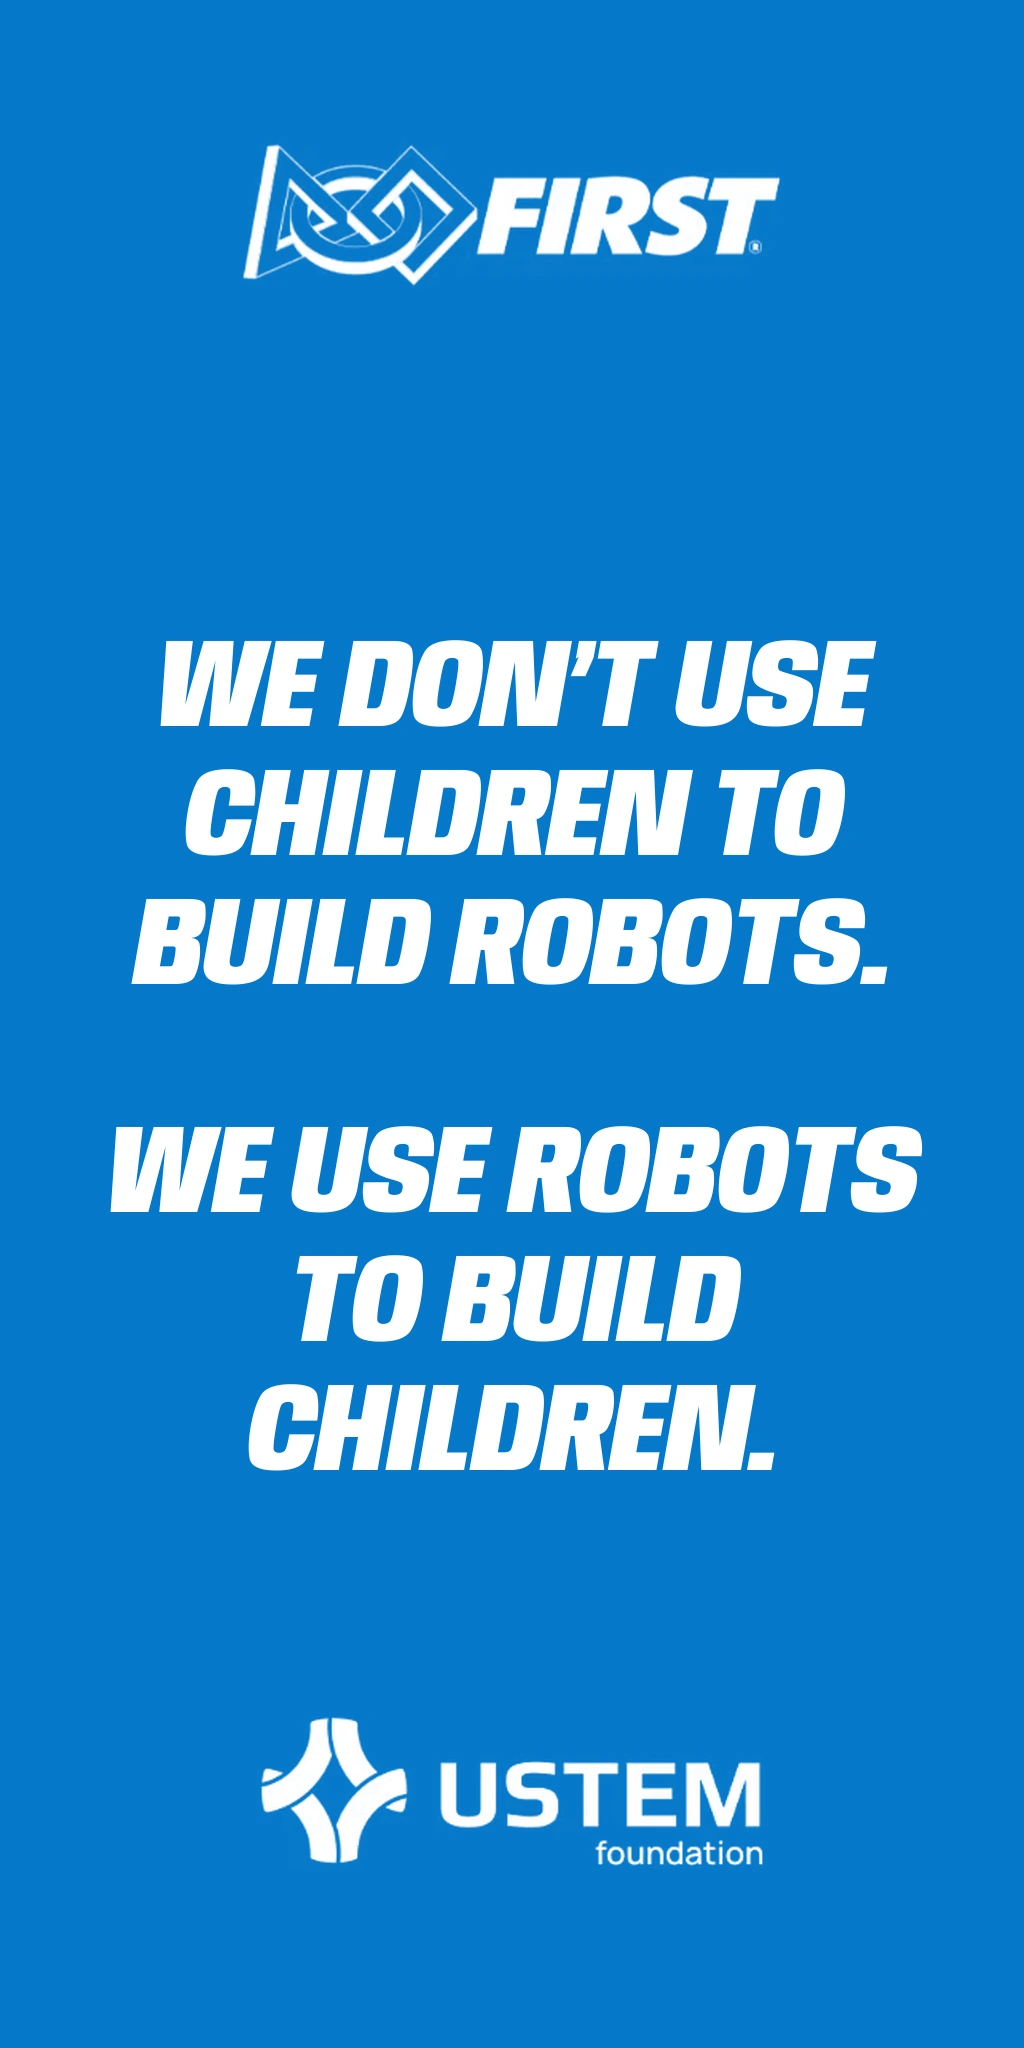
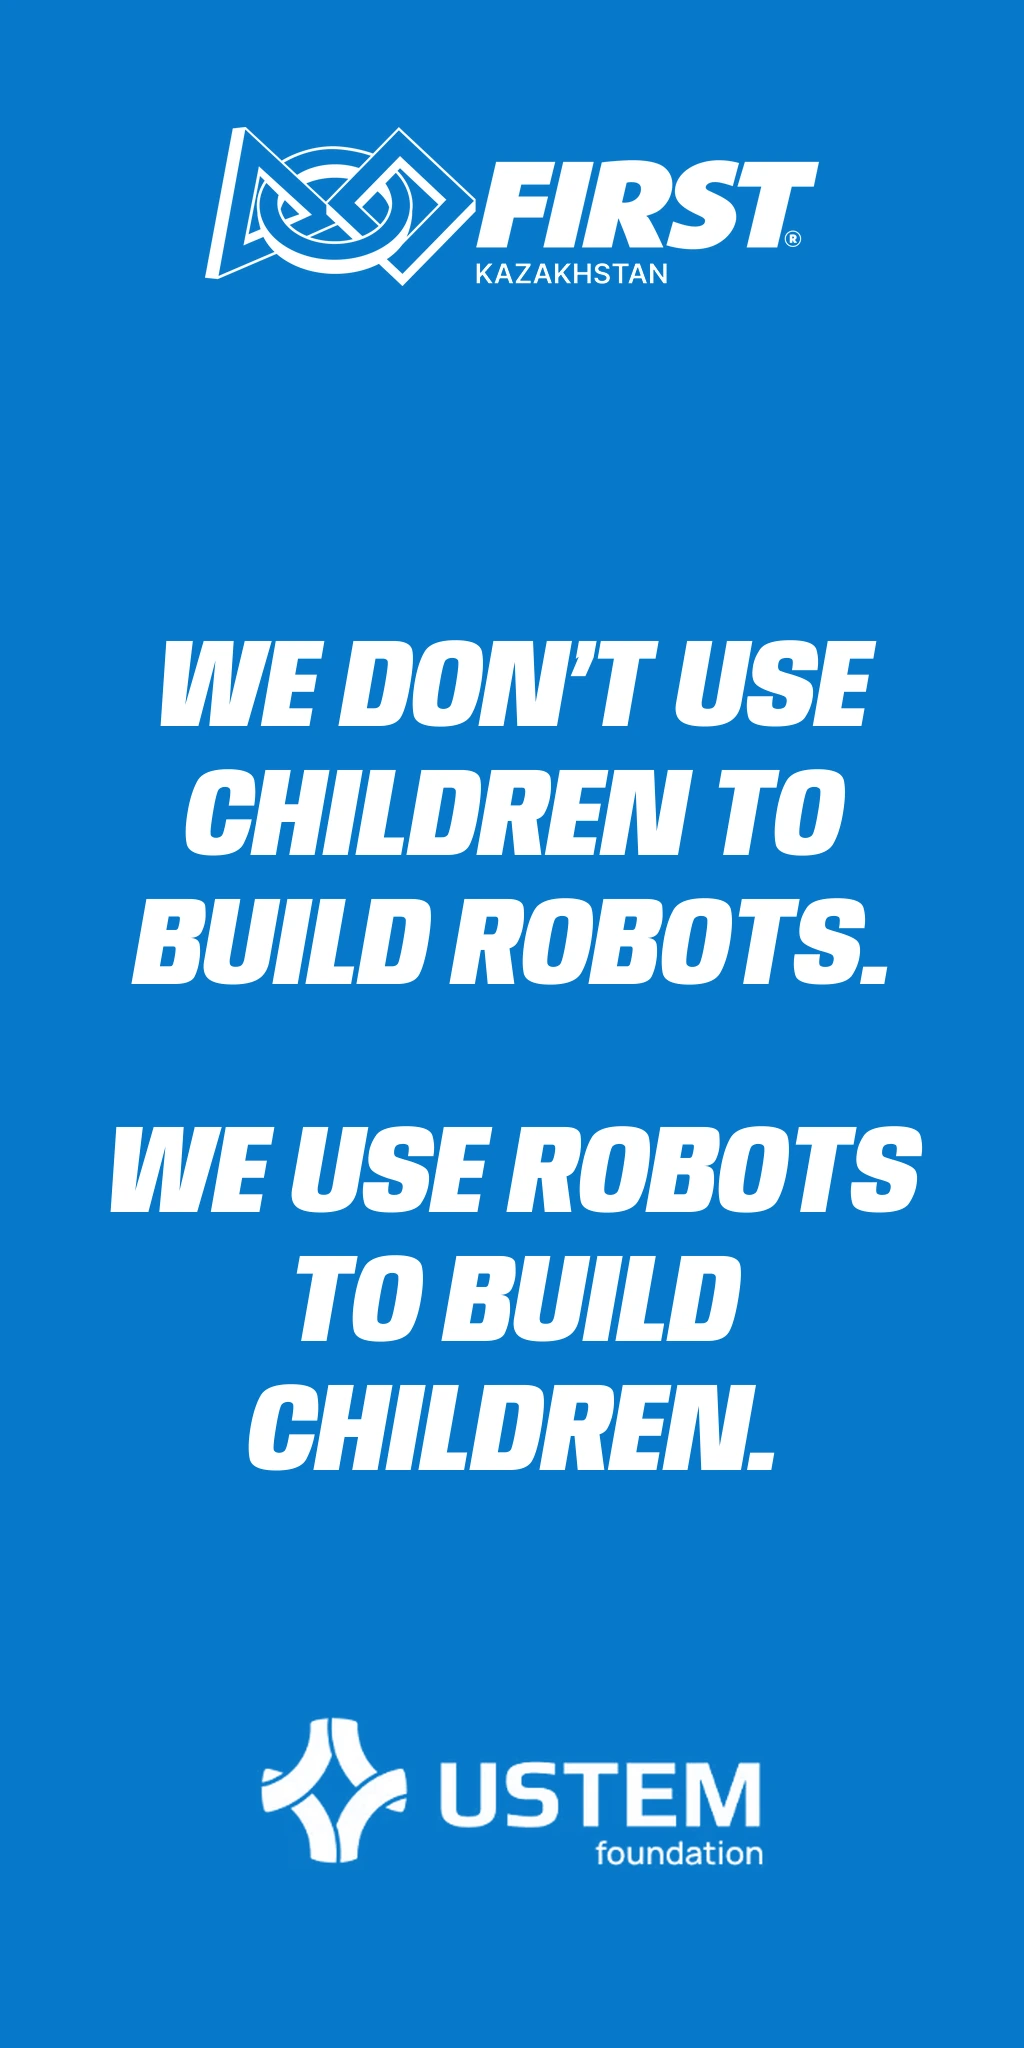
Флаг: логотип FIRST Kazakhstan вместо просто FIRST
- логотип на полотне собран из векторного файла, под словом FIRST –
  строка KAZAKHSTAN, как в фирменном логотипе; сам логотип чуть крупнее

Changed region(s): [[0.1875, 0.0625, 0.8125, 0.1562]]

diff --git a/README.md b/README.md
@@ -236,7 +236,7 @@ GitHub Pages разрешает браузерам хранить страниц
   У каждой «пилюли» фон и вырезка-предмет поверх (`assets/img/pill-*.webp` и `.svg`): предмет выступает над «пилюлей», а ниже её середины обрезан по её форме.
   Картинки собраны заранее из фото сайта, в `style.css` только положение вырезки в долях «пилюли».
 - Флаг со слоганом в блоке контактов — `assets/js/flag.js` (расчёт ткани и отрисовка через WebGL) и блок «флаг со слоганом» в `style.css`.
-  Полотно — картинка `assets/img/flag-quote.webp` (1024×2048): синий фон, логотипы FIRST и USTEM, слоган шрифтом Anybody Condensed Black Italic
+  Полотно — картинка `assets/img/flag-quote.webp` (1024×2048): синий фон, логотипы FIRST Kazakhstan и USTEM, слоган шрифтом Anybody Condensed Black Italic
   (шрифт нужен только чтобы нарисовать картинку, на сайт он не загружается). Чтобы сменить слоган, достаточно заменить эту картинку.
   Без WebGL или при отключённой в системе анимации флаг остаётся обычной картинкой.
 - Появление блоков при прокрутке — `assets/js/reveal.js`: блок ниже экрана скрыт и один раз плавно появляется, когда доезжает до экрана. Прячет блоки только
